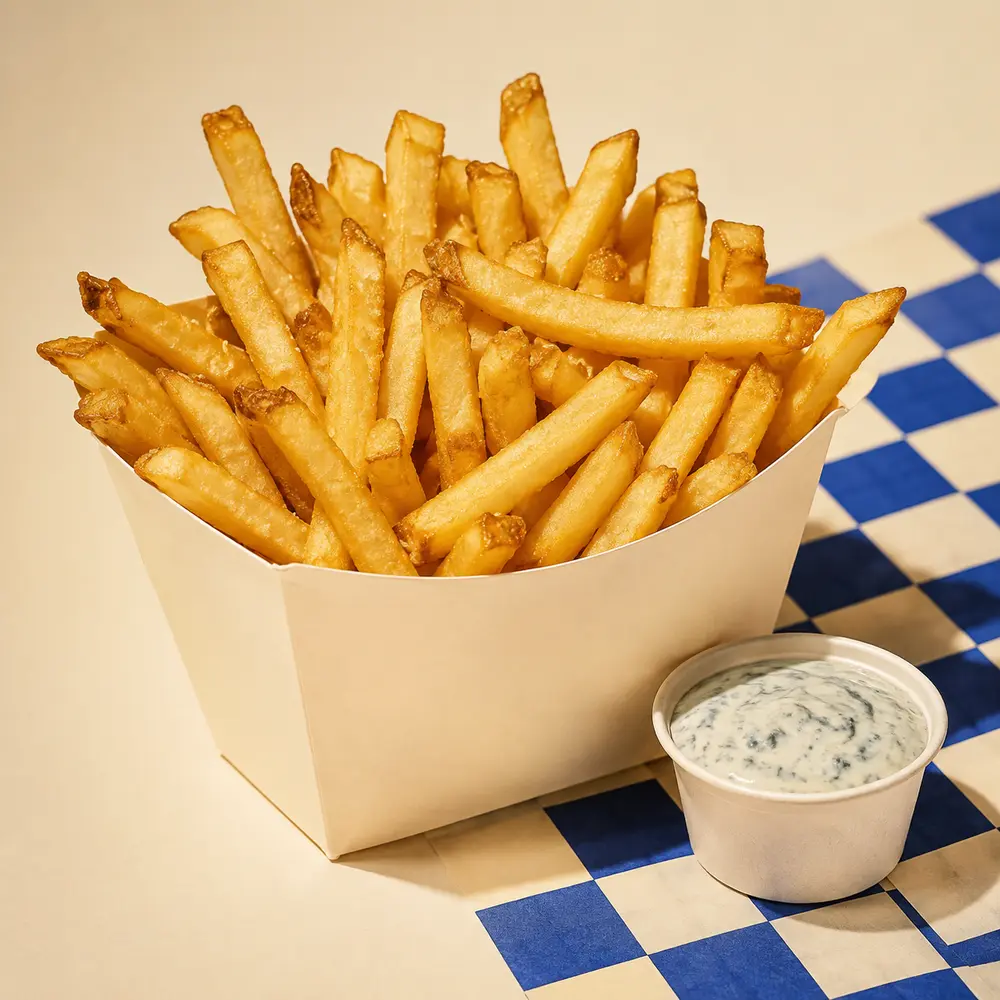
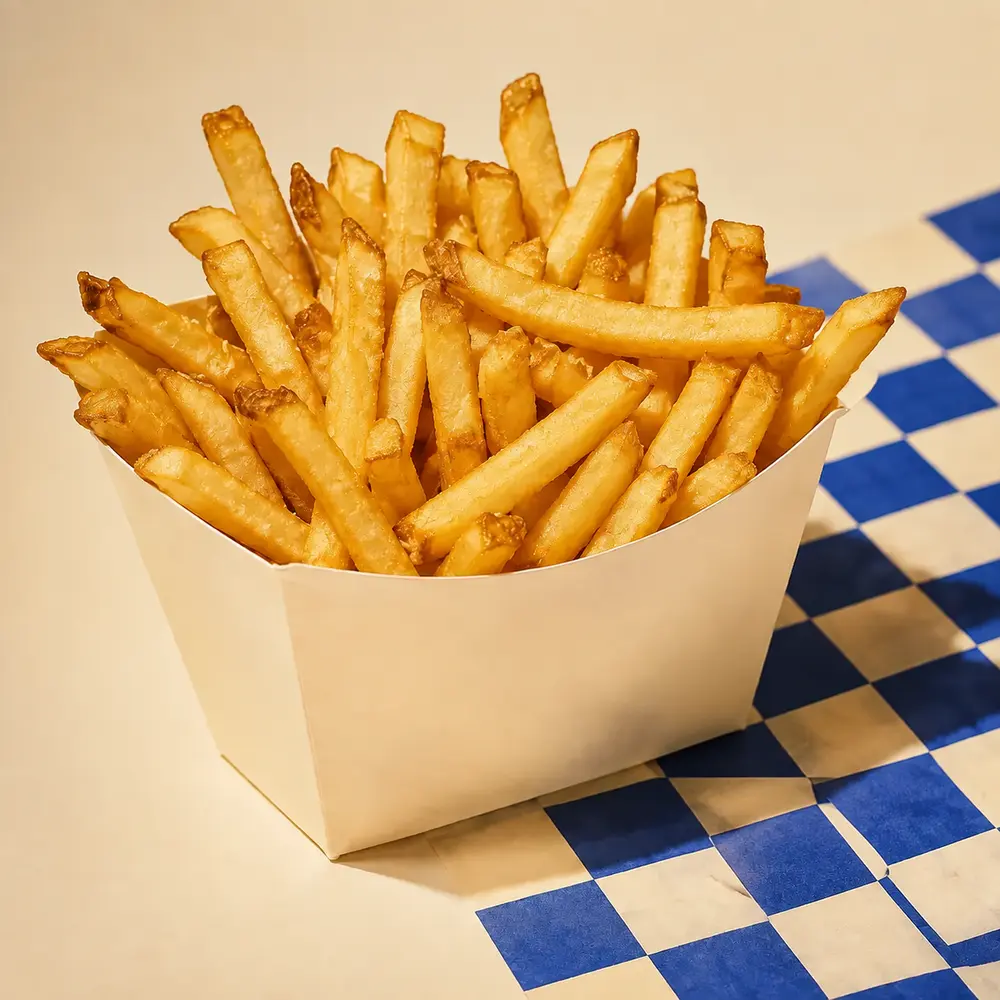
Polish mobile order navigation and menu photos

diff --git a/src/components/order/OrderFlow.tsx b/src/components/order/OrderFlow.tsx
@@ -1,6 +1,6 @@
 'use client';
 
-import { useMemo, useReducer, useRef, useState } from 'react';
+import { useEffect, useMemo, useReducer, useRef, useState } from 'react';
 import type { OrderDraft } from '@/types';
 import { useCart } from '@/context/CartContext';
 import {
@@ -15,6 +15,7 @@ import { resolveAttemptIdentity, type AttemptIdentity } from '@/lib/orders/attem
 import { validateOrderDraftForFinalization } from '@/lib/orders/draftValidation';
 import { getProductById } from '@/data/menu';
 import { calculateCartSubtotalBs } from '@/lib/cart/pricing';
+import { CART_SUMMARY_ID, VIEW_CART_EVENT } from '@/lib/cart/navigation';
 import { Stepper } from './Stepper';
 import { CartStep } from './CartStep';
 import { FulfillmentStep } from './FulfillmentStep';
@@ -24,6 +25,14 @@ import { BillingStep } from './BillingStep';
 import { PaymentStep } from './PaymentStep';
 import { ReviewStep } from './ReviewStep';
 import { ReceiptStep } from './ReceiptStep';
+
+function scrollToOrderSection(id: string) {
+  const target = document.getElementById(id);
+  if (target && typeof target.scrollIntoView === 'function') {
+    const reduceMotion = window.matchMedia?.('(prefers-reduced-motion: reduce)').matches ?? false;
+    target.scrollIntoView({ behavior: reduceMotion ? 'auto' : 'smooth', block: 'start' });
+  }
+}
 
 export function OrderFlow() {
   const { lines, clearCart } = useCart();
@@ -43,6 +52,8 @@ export function OrderFlow() {
   // colar una segunda llamada al servicio. El botón deshabilitado por
   // `finalizing` es la protección visual; esta es la protección real.
   const submittingRef = useRef(false);
+  const previousStepIndexRef = useRef(state.stepIndex);
+  const scrollToCartSummaryRef = useRef(false);
 
   const steps = getStepList();
   const currentStep = steps[state.stepIndex];
@@ -62,6 +73,36 @@ export function OrderFlow() {
     }),
     [state, lines],
   );
+
+  useEffect(() => {
+    if (previousStepIndexRef.current === state.stepIndex) return;
+
+    previousStepIndexRef.current = state.stepIndex;
+    const targetId = scrollToCartSummaryRef.current ? CART_SUMMARY_ID : 'paso-pedido-actual';
+    scrollToCartSummaryRef.current = false;
+    scrollToOrderSection(targetId);
+  }, [state.stepIndex]);
+
+  useEffect(() => {
+    function showCartSummary() {
+      if (state.stepIndex === 0) {
+        scrollToOrderSection(CART_SUMMARY_ID);
+        return;
+      }
+
+      scrollToCartSummaryRef.current = true;
+      dispatch({ type: 'GO_TO_STEP', stepIndex: 0 });
+    }
+
+    window.addEventListener(VIEW_CART_EVENT, showCartSummary);
+    return () => window.removeEventListener(VIEW_CART_EVENT, showCartSummary);
+  }, [state.stepIndex]);
+
+  useEffect(() => {
+    if (window.location.hash === `#${CART_SUMMARY_ID}`) {
+      scrollToOrderSection(CART_SUMMARY_ID);
+    }
+  }, []);
 
   /** Despacha una acción y limpia cualquier mensaje de validación pendiente. */
   function act(action: CheckoutAction) {
@@ -127,7 +168,10 @@ export function OrderFlow() {
         <Stepper currentStepIndex={state.stepIndex} />
       </div>
 
-      <div className={`mt-6 ${currentStep === 'cart' ? '' : 'lils-surface mx-auto max-w-3xl p-5 md:p-7'}`}>
+      <div
+        id="paso-pedido-actual"
+        className={`mt-6 scroll-mt-28 ${currentStep === 'cart' ? '' : 'lils-surface mx-auto max-w-3xl p-5 md:p-7'}`}
+      >
         {currentStep === 'cart' ? <CartStep onContinue={() => act({ type: 'NEXT_STEP' })} /> : null}
 
         {currentStep === 'fulfillment' ? (

diff --git a/src/components/cart/CartBar.tsx b/src/components/cart/CartBar.tsx
@@ -1,37 +1,60 @@
 'use client';
 
 import Link from 'next/link';
+import { usePathname } from 'next/navigation';
 import { useCart } from '@/context/CartContext';
 import { getProductById } from '@/data/menu';
 import { calculateCartSubtotalBs } from '@/lib/cart/pricing';
 import { formatBs } from '@/lib/format';
+import { CART_SUMMARY_ID, VIEW_CART_EVENT } from '@/lib/cart/navigation';
 
 /** Barra fija de carrito para móvil, visible cuando hay productos agregados. */
 export function CartBar() {
   const { lines, hydrated } = useCart();
+  const pathname = usePathname();
 
   if (!hydrated || lines.length === 0) return null;
 
   const itemCount = lines.reduce((sum, line) => sum + line.quantity, 0);
   const subtotal = calculateCartSubtotalBs(lines, getProductById);
+  const isOrderPage = pathname.replace(/\/+$/, '').endsWith('/ordenar');
+  const label = `Ver pedido: ${itemCount} ${itemCount === 1 ? 'producto' : 'productos'}, subtotal ${formatBs(subtotal)}`;
+  const controlClassName =
+    'pointer-events-auto relative z-10 flex min-h-14 w-full touch-manipulation select-none items-center justify-between rounded-full border border-brand-white/25 bg-brand-blue px-4 py-3 text-brand-white shadow-[0_10px_35px_rgba(23,37,119,0.32)] backdrop-blur active:scale-[0.98]';
+  const content = (
+    <>
+      <span className="flex items-center gap-2 font-semibold">
+        <span className="flex h-6 w-6 items-center justify-center rounded-full bg-brand-white text-sm font-bold text-brand-blue">
+          {itemCount}
+        </span>
+        Ver pedido
+      </span>
+      <span className="font-display text-lg font-extrabold" aria-live="polite">
+        {formatBs(subtotal)}
+      </span>
+    </>
+  );
 
   return (
     <div className="pointer-events-none fixed inset-x-0 bottom-0 z-[90] px-3 pb-[max(0.75rem,env(safe-area-inset-bottom))] pt-3 md:hidden">
-      <Link
-        href="/ordenar"
-        aria-label={`Ver pedido: ${itemCount} ${itemCount === 1 ? 'producto' : 'productos'}, subtotal ${formatBs(subtotal)}`}
-        className="pointer-events-auto relative z-10 flex min-h-14 touch-manipulation select-none items-center justify-between rounded-full border border-brand-white/25 bg-brand-blue px-4 py-3 text-brand-white shadow-[0_10px_35px_rgba(23,37,119,0.32)] backdrop-blur active:scale-[0.98]"
-      >
-        <span className="flex items-center gap-2 font-semibold">
-          <span className="flex h-6 w-6 items-center justify-center rounded-full bg-brand-white text-sm font-bold text-brand-blue">
-            {itemCount}
-          </span>
-          Ver pedido
-        </span>
-        <span className="font-display text-lg font-extrabold" aria-live="polite">
-          {formatBs(subtotal)}
-        </span>
-      </Link>
+      {isOrderPage ? (
+        <button
+          type="button"
+          aria-label={label}
+          className={controlClassName}
+          onClick={() => window.dispatchEvent(new Event(VIEW_CART_EVENT))}
+        >
+          {content}
+        </button>
+      ) : (
+        <Link
+          href={`/ordenar#${CART_SUMMARY_ID}`}
+          aria-label={label}
+          className={controlClassName}
+        >
+          {content}
+        </Link>
+      )}
     </div>
   );
 }

diff --git a/src/components/order/OrderFlow.test.tsx b/src/components/order/OrderFlow.test.tsx
@@ -4,6 +4,7 @@ import userEvent from '@testing-library/user-event';
 import { CartProvider } from '@/context/CartContext';
 import { CART_STORAGE_KEY_NAME } from '@/lib/cart/storage';
 import { demoOrderService } from '@/lib/orders/DemoOrderService';
+import { VIEW_CART_EVENT } from '@/lib/cart/navigation';
 import { OrderFlow } from './OrderFlow';
 
 function seedCart() {
@@ -91,5 +92,61 @@ describe('OrderFlow: protección de doble clic en Finalizar pedido', () => {
 
     expect(submitSpy).toHaveBeenCalledTimes(1);
     submitSpy.mockRestore();
+  });
+});
+
+describe('OrderFlow: navegación móvil entre carrito y entrega', () => {
+  beforeEach(() => {
+    window.localStorage.clear();
+    seedCart();
+    Object.defineProperty(window, 'matchMedia', {
+      configurable: true,
+      value: vi.fn().mockReturnValue({ matches: false }),
+    });
+    Object.defineProperty(HTMLElement.prototype, 'scrollIntoView', {
+      configurable: true,
+      value: vi.fn(),
+    });
+  });
+
+  it('sube al inicio de las opciones después de elegir entrega', async () => {
+    const user = userEvent.setup();
+
+    render(
+      <CartProvider>
+        <OrderFlow />
+      </CartProvider>,
+    );
+
+    await screen.findAllByText(/LILS Burger/, {}, { timeout: 3000 });
+    await user.click(screen.getByRole('button', { name: /Elegir entrega/ }));
+
+    await screen.findByText('¿Cómo quieres recibir tu pedido?');
+    expect(HTMLElement.prototype.scrollIntoView).toHaveBeenCalledWith({
+      behavior: 'smooth',
+      block: 'start',
+    });
+  });
+
+  it('el botón móvil vuelve al resumen aunque el pedido esté en otro paso', async () => {
+    const user = userEvent.setup();
+
+    render(
+      <CartProvider>
+        <OrderFlow />
+      </CartProvider>,
+    );
+
+    await screen.findAllByText(/LILS Burger/, {}, { timeout: 3000 });
+    await user.click(screen.getByRole('button', { name: /Elegir entrega/ }));
+    await screen.findByText('¿Cómo quieres recibir tu pedido?');
+
+    window.dispatchEvent(new Event(VIEW_CART_EVENT));
+
+    await screen.findByRole('heading', { name: 'Resumen del pedido' });
+    expect(HTMLElement.prototype.scrollIntoView).toHaveBeenLastCalledWith({
+      behavior: 'smooth',
+      block: 'start',
+    });
   });
 });

diff --git a/src/components/cart/CartBar.test.tsx b/src/components/cart/CartBar.test.tsx
@@ -1,0 +1,47 @@
+import { describe, expect, it, vi } from 'vitest';
+import { render, screen } from '@testing-library/react';
+import userEvent from '@testing-library/user-event';
+import { CartProvider } from '@/context/CartContext';
+import { CART_STORAGE_KEY_NAME } from '@/lib/cart/storage';
+import { VIEW_CART_EVENT } from '@/lib/cart/navigation';
+import { CartBar } from './CartBar';
+
+vi.mock('next/navigation', () => ({
+  usePathname: () => '/LILS/ordenar/',
+}));
+
+describe('CartBar', () => {
+  it('activa la navegación al resumen al tocar Ver pedido en Ordenar', async () => {
+    window.localStorage.setItem(
+      CART_STORAGE_KEY_NAME,
+      JSON.stringify({
+        lines: [
+          {
+            lineId: 'mobile-cart-line',
+            productId: 'lils-burger',
+            variantId: 'doble',
+            quantity: 1,
+            removedIngredientIds: [],
+            extras: [],
+            noFries: false,
+            notes: '',
+          },
+        ],
+      }),
+    );
+    const listener = vi.fn();
+    window.addEventListener(VIEW_CART_EVENT, listener);
+    const user = userEvent.setup();
+
+    render(
+      <CartProvider>
+        <CartBar />
+      </CartProvider>,
+    );
+
+    await user.click(await screen.findByRole('button', { name: /Ver pedido:/ }));
+
+    expect(listener).toHaveBeenCalledTimes(1);
+    window.removeEventListener(VIEW_CART_EVENT, listener);
+  });
+});

diff --git a/src/lib/cart/navigation.ts b/src/lib/cart/navigation.ts
@@ -1,0 +1,4 @@
+export const VIEW_CART_EVENT = 'lils:view-cart';
+
+export const CART_SUMMARY_ID = 'resumen-pedido';
+
